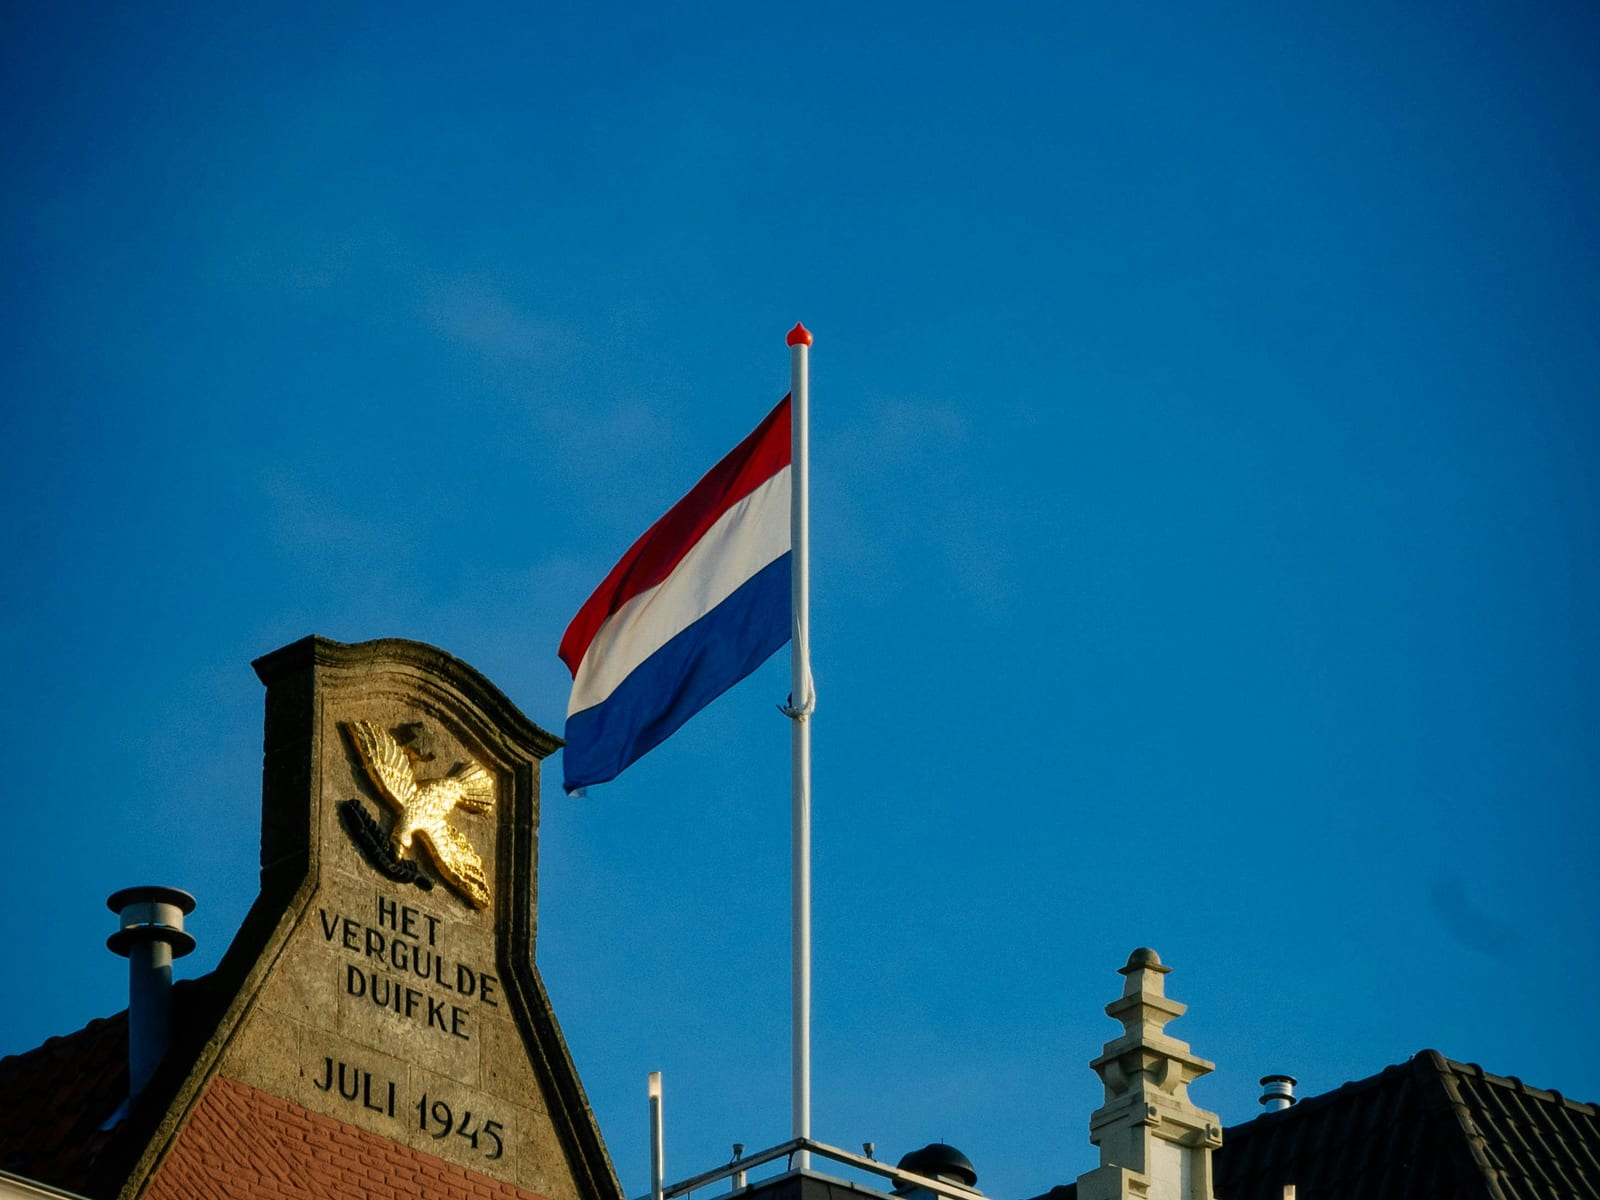
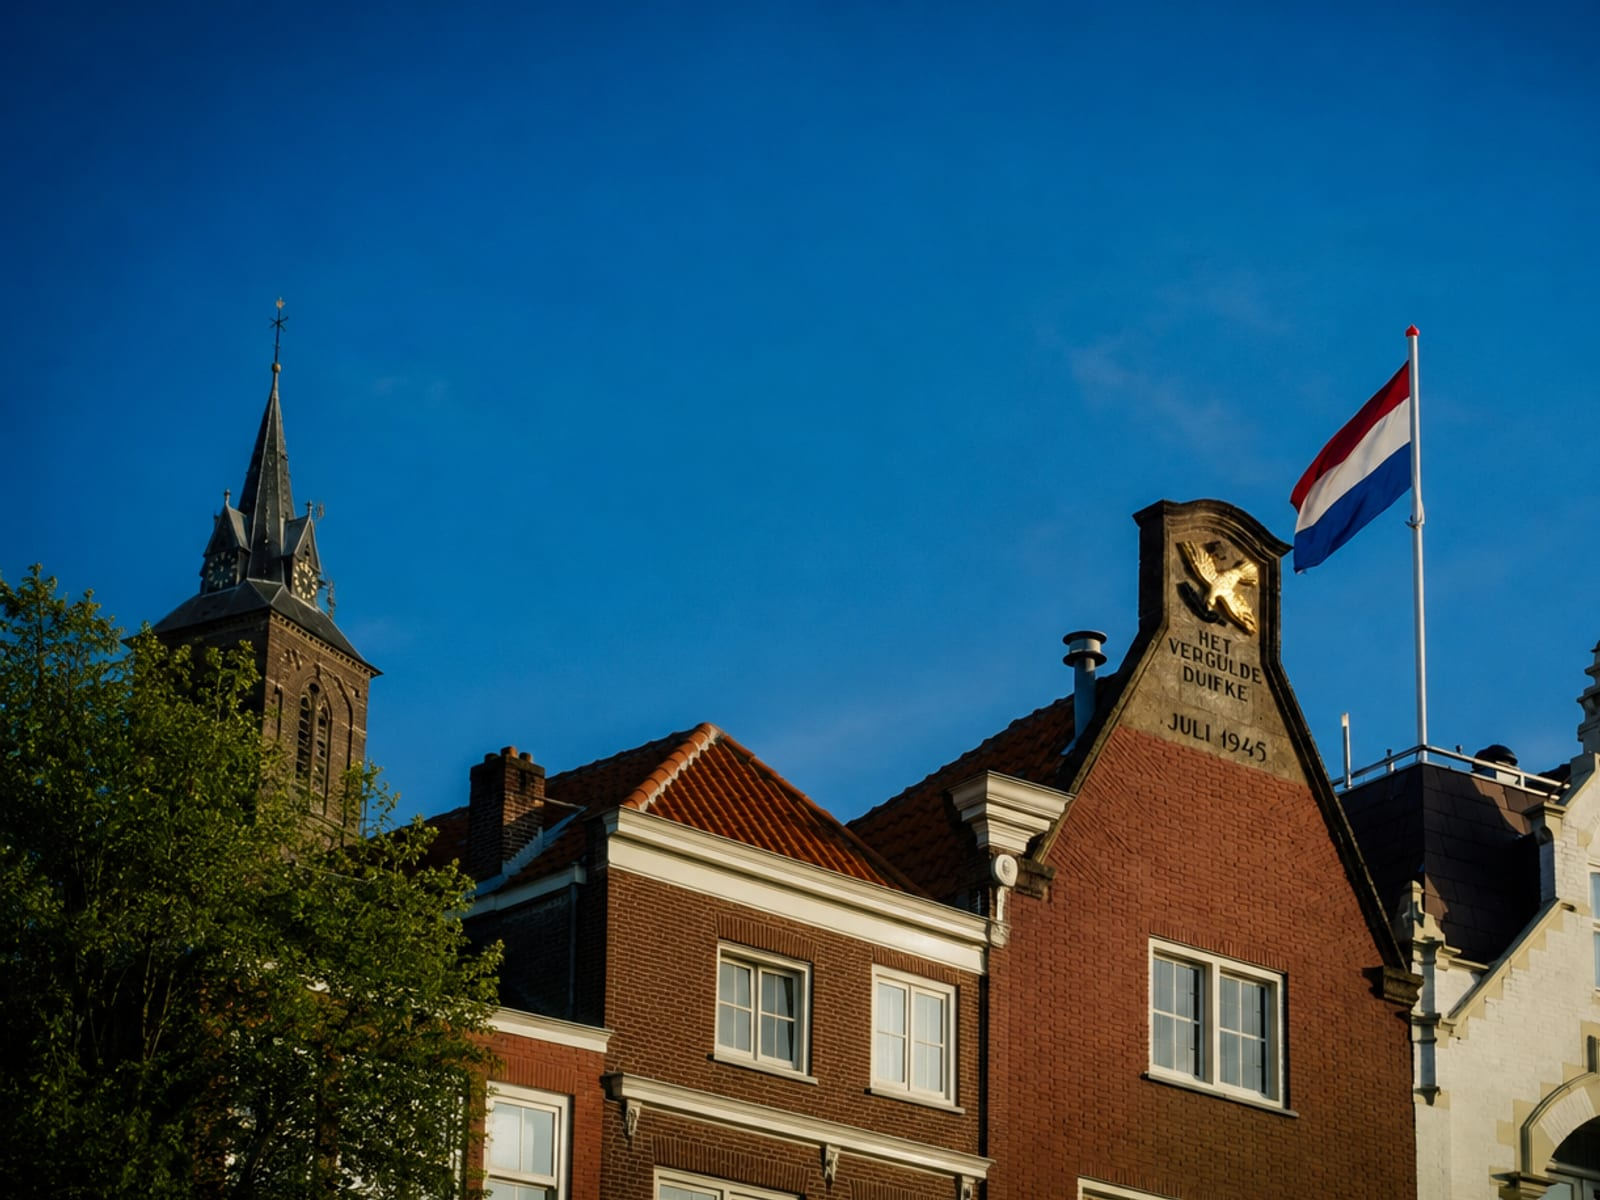
feat(hero): full-width background image, tighter headline
Replaces the hero source with the wider composition (church spire, tree,
the inscribed gable and the flag) and returns the photo to full-bleed
with the navy scrim over it, instead of the right-half split.

- resources/images/hero-source.png replaces the .jpg; the build script
  now accepts png/jpg/jpeg/webp so swapping the source needs no edit.
- The crop window in scripts/build-hero-image.mjs is now explicit
  (RIGHT_TRIM / TOP_TRIM) rather than derived. Reason: the floating
  question cards sit over the hero's right-centre, and with the source
  and the band at nearly the same aspect ratio object-position had no
  room to pan — the flag rendered entirely behind the cards, which is
  most of the point of the photo. Trimming 20.5% off the right pushes
  the flag to ~80% width, clear of them. Verified by screenshot.
- Output is 4:3 to match the band, so CSS adds no crop of its own and
  the build script is the single place framing is decided.

Headline: line-height 1.06 (was leading-tight/1.25) with -0.03em
tracking, per the large-heading rule in CLAUDE.md.

CREDITS.md corrected — this source is AI-generated, not the Unsplash
photo, and now records how that sits against the '0% AI-gegenereerde
vragen' claim (which is scoped to exam content, so it still holds).

diff --git a/app/[locale]/(main)/page.tsx b/app/[locale]/(main)/page.tsx
@@ -136,39 +136,33 @@ export default async function HomePage({ params }: Props) {
         className="relative overflow-hidden -mt-20"
         style={{ minHeight: '680px', paddingTop: 'calc(5rem + 5rem)', paddingBottom: '6rem' }}
       >
-        {/* Solid brand base — the whole left half of the hero is this, uncovered. */}
-        <div
-          className="absolute inset-0"
-          style={{ background: 'radial-gradient(120% 100% at 12% 8%, #143d8a 0%, #002b6d 55%)' }}
-        />
-
-        {/* Photo occupies the right half on desktop; full-bleed behind a scrim on mobile.
-            Built from resources/images/hero-source.jpg by scripts/build-hero-image.mjs */}
+        {/* Full-bleed background photo.
+            Built from resources/images/hero-source.png by scripts/build-hero-image.mjs */}
         <picture>
           <source srcSet="/images/hero.webp" type="image/webp" />
           <img
             src="/images/hero-compressed.jpg"
-            alt="Amsterdamse trapgevel met het opschrift 'Het Vergulde Duifke, juli 1945' en de Nederlandse vlag"
-            data-credit="Photo by Pourya Gohari on Unsplash"
-            className="absolute inset-y-0 right-0 h-full w-full lg:w-[58%] object-cover"
+            alt="Nederlandse trapgevels met het opschrift 'Het Vergulde Duifke, juli 1945', een kerktoren en de Nederlandse vlag"
+            className="absolute inset-0 w-full h-full object-cover"
             width={1600}
-            height={1200}
-            style={{ objectPosition: '24% 42%' }}
+            height={1067}
+            style={{ objectPosition: 'center 40%' }}
             fetchPriority="high"
             decoding="async"
           />
         </picture>
 
-        {/* Feathers the photo's left edge into the navy so the seam is not a hard line. */}
+        {/* Navy scrim: opaque behind the copy on the left, clearing to reveal the gable and
+            flag on the right. The subject sits right-of-centre, so this can run further. */}
         <div
-          className="absolute inset-y-0 right-0 w-full lg:w-[58%] pointer-events-none"
-          style={{ background: 'linear-gradient(90deg, #002B6D 0%, #002B6D 12%, rgba(0,43,109,0.80) 26%, rgba(0,43,109,0.40) 44%, rgba(0,43,109,0.12) 62%, transparent 80%)' }}
+          className="absolute inset-0 pointer-events-none"
+          style={{ background: 'linear-gradient(100deg, #002B6D 0%, #002B6D 30%, rgba(0,43,109,0.90) 42%, rgba(0,43,109,0.62) 55%, rgba(0,43,109,0.30) 70%, rgba(0,43,109,0.10) 85%, rgba(0,43,109,0.04) 100%)' }}
         />
 
-        {/* Mobile has no separate column, so the copy sits over the photo — darken it. */}
+        {/* Mobile has no separate column, so the copy sits over the photo — darken further. */}
         <div
           className="absolute inset-0 lg:hidden pointer-events-none"
-          style={{ background: 'rgba(0,43,109,0.72)' }}
+          style={{ background: 'rgba(0,43,109,0.55)' }}
         />
 
         {/* Top darkening so the fixed nav keeps contrast */}
@@ -188,8 +182,8 @@ export default async function HomePage({ params }: Props) {
               </div>
 
               <h1
-                className="font-headline font-extrabold text-white leading-tight tracking-tight mb-6"
-                style={{ fontSize: 'clamp(1.85rem, 5vw, 3.8rem)' }}
+                className="font-headline font-extrabold text-white tracking-tight mb-6"
+                style={{ fontSize: 'clamp(1.85rem, 5vw, 3.8rem)', lineHeight: 1.06, letterSpacing: '-0.03em' }}
               >
                 <span className="block">{t('hero_line1')}</span>
                 <span className="italic" style={{ color: 'rgba(255,255,255,0.90)' }}>{t('hero_line2')}</span>

diff --git a/app/api/generate-question-audio/route.ts b/app/api/generate-question-audio/route.ts
@@ -1,9 +1,13 @@
 import { createAdminClient } from '@/lib/supabase/admin';
 import { NextRequest, NextResponse } from 'next/server';
+import { NARRATOR, voiceId } from '@/lib/tts-voices';
 
-const VOICE_ID = 'S2OWP8siwXK4AZRAs2ec';
-const MODEL_ID = 'eleven_flash_v2_5';
-const SPEED    = 0.76;
+const VOICE_ID = voiceId(NARRATOR);
+// multilingual_v2, not flash: this audio is generated once and cached in Storage, so there
+// is no latency budget to trade quality against. `language_code` is dropped — the API
+// ignores it on multilingual_v2.
+const MODEL_ID = 'eleven_multilingual_v2';
+const SPEED    = 0.9;
 const BUCKET   = 'question-audio';
 
 async function synthesize(text: string, apiKey: string): Promise<ArrayBuffer> {
@@ -13,8 +17,8 @@ async function synthesize(text: string, apiKey: string): Promise<ArrayBuffer> {
     body: JSON.stringify({
       text,
       model_id: MODEL_ID,
-      language_code: 'nl',
-      voice_settings: { stability: 1.0, similarity_boost: 1.0, speed: SPEED },
+      voice_settings: { stability: 0.45, similarity_boost: 0.75, use_speaker_boost: true, speed: SPEED },
+      apply_text_normalization: 'on',
     }),
   });
   if (!res.ok) throw new Error(`ElevenLabs error ${res.status}: ${await res.text()}`);

diff --git a/app/api/generate-wordcard-audio/route.ts b/app/api/generate-wordcard-audio/route.ts
@@ -1,9 +1,13 @@
 import { createAdminClient } from '@/lib/supabase/admin';
 import { NextRequest, NextResponse } from 'next/server';
+import { NARRATOR, voiceId } from '@/lib/tts-voices';
 
-const VOICE_ID = 'S2OWP8siwXK4AZRAs2ec';
-const MODEL_ID = 'eleven_flash_v2_5';
-const SPEED    = 0.76;
+const VOICE_ID = voiceId(NARRATOR);
+// multilingual_v2, not flash: this audio is generated once and cached in Storage, so there
+// is no latency budget to trade quality against. `language_code` is dropped — the API
+// ignores it on multilingual_v2.
+const MODEL_ID = 'eleven_multilingual_v2';
+const SPEED    = 0.9;
 const BUCKET   = 'wordcard-audio';
 
 async function synthesize(text: string, apiKey: string): Promise<ArrayBuffer> {
@@ -13,8 +17,8 @@ async function synthesize(text: string, apiKey: string): Promise<ArrayBuffer> {
     body: JSON.stringify({
       text,
       model_id: MODEL_ID,
-      language_code: 'nl',
-      voice_settings: { stability: 1.0, similarity_boost: 1.0, speed: SPEED },
+      voice_settings: { stability: 0.45, similarity_boost: 0.75, use_speaker_boost: true, speed: SPEED },
+      apply_text_normalization: 'on',
     }),
   });
   if (!res.ok) throw new Error(`ElevenLabs error ${res.status}: ${await res.text()}`);

diff --git a/app/api/admin/generate-lesson-audio/route.ts b/app/api/admin/generate-lesson-audio/route.ts
@@ -1,9 +1,13 @@
 import { createAdminClient } from '@/lib/supabase/admin';
 import { extractCues } from '@/lib/leren-audio-cues';
 import { NextRequest, NextResponse } from 'next/server';
+import { NARRATOR, voiceId } from '@/lib/tts-voices';
 
-const VOICE_ID = 'S2OWP8siwXK4AZRAs2ec';
-const MODEL_ID = 'eleven_flash_v2_5';
+const VOICE_ID = voiceId(NARRATOR);
+// multilingual_v2, not flash: this audio is generated once and cached in Storage, so there
+// is no latency budget to trade quality against. `language_code` is dropped — the API
+// ignores it on multilingual_v2.
+const MODEL_ID = 'eleven_multilingual_v2';
 const BUCKET   = 'leren-audio';
 
 export async function POST(req: NextRequest) {
@@ -41,8 +45,8 @@ export async function POST(req: NextRequest) {
       body: JSON.stringify({
         text: script,
         model_id: MODEL_ID,
-        language_code: 'nl',
-        voice_settings: { stability: 1.0, similarity_boost: 1.0, speed: 0.76 },
+        voice_settings: { stability: 0.45, similarity_boost: 0.75, use_speaker_boost: true, speed: 0.9 },
+        apply_text_normalization: 'on',
       }),
     }
   );

diff --git a/lib/tts-voices.ts b/lib/tts-voices.ts
@@ -1,0 +1,19 @@
+import voices from '@/data/tts-voices.json';
+
+export type VoiceKey = keyof typeof voices;
+
+export type Voice = {
+  id: string;
+  name: string;
+  gender: 'female' | 'male';
+};
+
+export const VOICES = voices as Record<VoiceKey, Voice>;
+
+export const NARRATOR: VoiceKey = 'roos';
+
+export const DIALOGUE_VOICES: { A: VoiceKey; B: VoiceKey } = { A: 'roos', B: 'eric' };
+
+export function voiceId(key: VoiceKey): string {
+  return VOICES[key].id;
+}

diff --git a/resources/images/CREDITS.md b/resources/images/CREDITS.md
@@ -1,11 +1,19 @@
 # Image credits
 
-Source files for generated assets. **Not deployed** — `public/images/` holds the
-optimized output. Regenerate with `node scripts/build-hero-image.mjs`.
+Source files for generated assets. **Not deployed** — `public/images/` holds the optimized
+output. Regenerate with `node scripts/build-hero-image.mjs`.
 
-| File | Subject | Photographer | Source | Licence |
-|---|---|---|---|---|
-| `hero-source.jpg` | Amsterdam gables ("Het Vergulde Duifke", juli 1945) with the Dutch flag | Pourya Gohari | [Unsplash `fo6MYyt4JPc`](https://unsplash.com/photos/fo6MYyt4JPc) | [Unsplash Licence](https://unsplash.com/license) — free for commercial use, attribution appreciated but not required |
+| File | Subject | Origin | Licence / notes |
+|---|---|---|---|
+| `hero-source.png` | Dutch gables with the "Het Vergulde Duifke, juli 1945" inscription, a church spire and the Dutch flag | **AI-generated** (ChatGPT image generation, 28 July 2026), composed after a photo by [Pourya Gohari on Unsplash](https://unsplash.com/photos/fo6MYyt4JPc) | Owner-supplied. No third-party attribution required for the generated file; the Unsplash original it references is under the [Unsplash Licence](https://unsplash.com/license). |
 
-Photographer credit is carried in the homepage hero as a `data-credit` attribute so it
-survives redesigns.
+## Note on this asset and the "no AI" positioning
+
+The site's headline claim is **"0% AI-gegenereerde vragen"** — scoped to exam content
+(questions, rubrics, model answers), which is authored and reviewed by the NT2 docent. This
+decorative hero image is AI-generated and does **not** contradict that claim.
+
+Keep the distinction clean if the copy ever changes: a broader claim such as "no AI anywhere
+on this site" would be false while this asset is in use. Swapping in a real photograph would
+remove the ambiguity entirely, and is worth doing if the brand leans harder on the anti-AI
+message.

diff --git a/CLAUDE.md b/CLAUDE.md
@@ -187,6 +187,24 @@ anyone else's.
   Regenerate one item: `node scripts/generate-free-practice-audio.mjs lu-3`.
 - **Paid exam audio:** Supabase Storage `question-audio` bucket, per-question from admin.
 
+### TTS voices — always use the four in `data/tts-voices.json`
+`data/tts-voices.json` is the **single source of truth** for ElevenLabs voice IDs; import it
+via `lib/tts-voices.ts` (`VOICES`, `NARRATOR`, `DIALOGUE_VOICES`, `voiceId()`) in app code,
+or read the JSON directly in `scripts/*.mjs`. **Never hardcode a voice ID anywhere.**
+
+| Key | Voice | Gender |
+|---|---|---|
+| `roos` | Roos | female |
+| `ruth` | Ruth | female |
+| `eric` | Eric | male |
+| `ido` | Ido | male |
+
+- Single-narrator surfaces (question read-aloud, lesson audio, woordkaarten) use `NARRATOR`.
+- Dialogues / conversations use `DIALOGUE_VOICES` — speaker A and B must be **different
+  voices**, and consistent within one exam so the listener can follow who is speaking.
+- Need more than two speakers, or variety across exams? Pick further keys from the table.
+  Do not add a fifth voice without the owner's approval.
+
 ---
 
 ## Design rules

diff --git a/LEARNINGS.md b/LEARNINGS.md
@@ -500,3 +500,9 @@ it with a check that can't false-positive on substrings — anchor the pattern (
 than matching bare. Separately: when `generateMetadata` and the page body can disagree
 (redirect, notFound, feature flag), the metadata must be made consistent too, or the page
 ships a title that describes content it never renders.
+
+## 2026-07-28 — Central TTS voice library
+**Changed:** added `data/tts-voices.json` (Roos/Ruth/Eric/Ido) + typed `lib/tts-voices.ts`; replaced the hardcoded voice ID in `scripts/generate-free-practice-audio.mjs` and the three ElevenLabs API routes; documented the rule in CLAUDE.md.
+**Outcome:** SUCCESS (`npx tsc --noEmit` clean)
+**What worked:** JSON as the shared source (TS imports it via `resolveJsonModule`, the `.mjs` script reads it with `fs`) — avoids duplicating IDs across a TS/ESM boundary on Node 20.
+**Lesson:** shared constants needed by both app code and `scripts/*.mjs` belong in JSON, not a `.ts` file.
